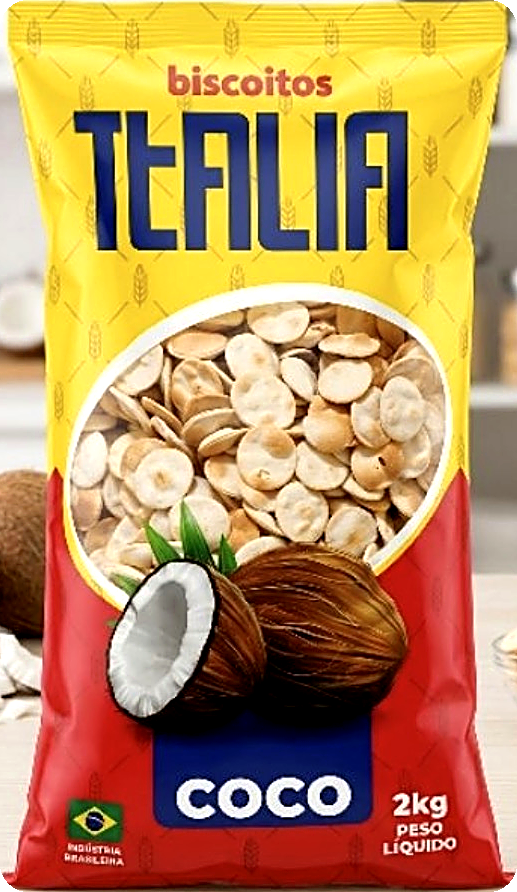
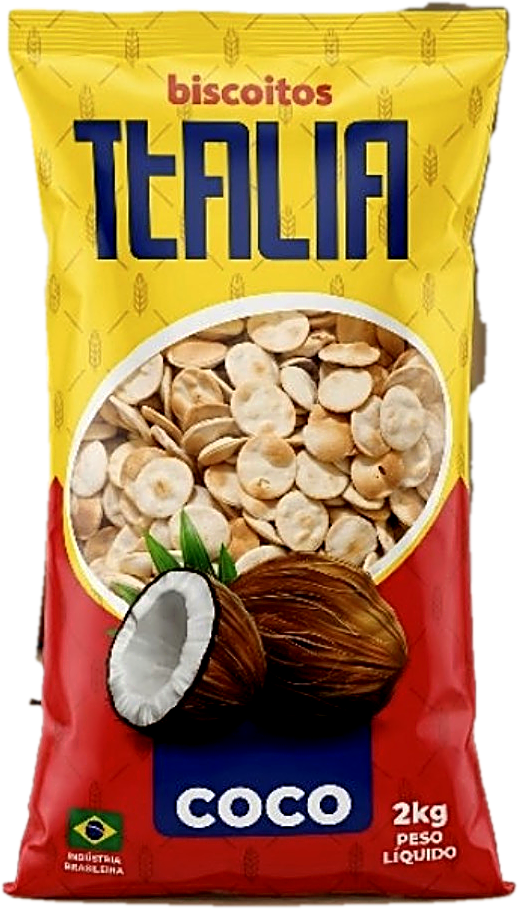
Itamar ofertas: biscoito Itália recortado sem o fundo de cozinha
Claude-Session: https://claude.ai/code/session_01RAcsiCUqH9iCNBekL3L4L7

diff --git a/ferramentas/recorte_poligono.py b/ferramentas/recorte_poligono.py
@@ -1,0 +1,26 @@
+#!/usr/bin/env python3
+"""Recorte de produto com fundo de cenário: polígono aproximado + remoção, a partir da borda,
+de pixels pouco saturados (fundo neutro) dentro do polígono. Depois ajusta luz/nitidez.
+Uso: python3 ferramentas/recorte_poligono.py entrada.jpg saida.png "x,y x,y ..." [--sat 0.28]"""
+import sys, numpy as np
+from PIL import Image, ImageDraw, ImageFilter, ImageOps, ImageEnhance
+a=sys.argv; ent,sai=a[1],a[2]; pts=[tuple(int(v) for v in p.split(',')) for p in a[3].split()]
+satmin=float(a[a.index('--sat')+1]) if '--sat' in a else 0.28
+im=Image.open(ent).convert('RGB')
+poly=Image.new('L',im.size,0); ImageDraw.Draw(poly).polygon(pts,fill=255); P=np.asarray(poly)>0
+hsv=np.asarray(im.convert('HSV')).astype(float)/255
+cand=(hsv[...,1]<satmin)&P
+m=np.zeros_like(P)
+# semente: pixels candidatos vizinhos de fora do polígono
+out=~P; nb=out.copy(); nb[1:]|=out[:-1]; nb[:-1]|=out[1:]; nb[:,1:]|=out[:,:-1]; nb[:,:-1]|=out[:,1:]
+m=cand&nb
+while True:
+    d=m.copy(); d[1:]|=m[:-1]; d[:-1]|=m[1:]; d[:,1:]|=m[:,:-1]; d[:,:-1]|=m[:,1:]; d&=cand
+    if (d==m).all(): break
+    m=d
+alpha=Image.fromarray(np.where(P&~m,255,0).astype('uint8'))
+alpha=alpha.filter(ImageFilter.MinFilter(3)).filter(ImageFilter.GaussianBlur(1.2))
+im=ImageOps.autocontrast(im,cutoff=0.5,preserve_tone=True)
+im=ImageEnhance.Color(im).enhance(1.10); im=ImageEnhance.Contrast(im).enhance(1.05)
+im=im.filter(ImageFilter.UnsharpMask(radius=2,percent=90,threshold=2))
+im.putalpha(alpha); im=im.crop(alpha.getbbox()); im.save(sai); print(sai,im.size)
